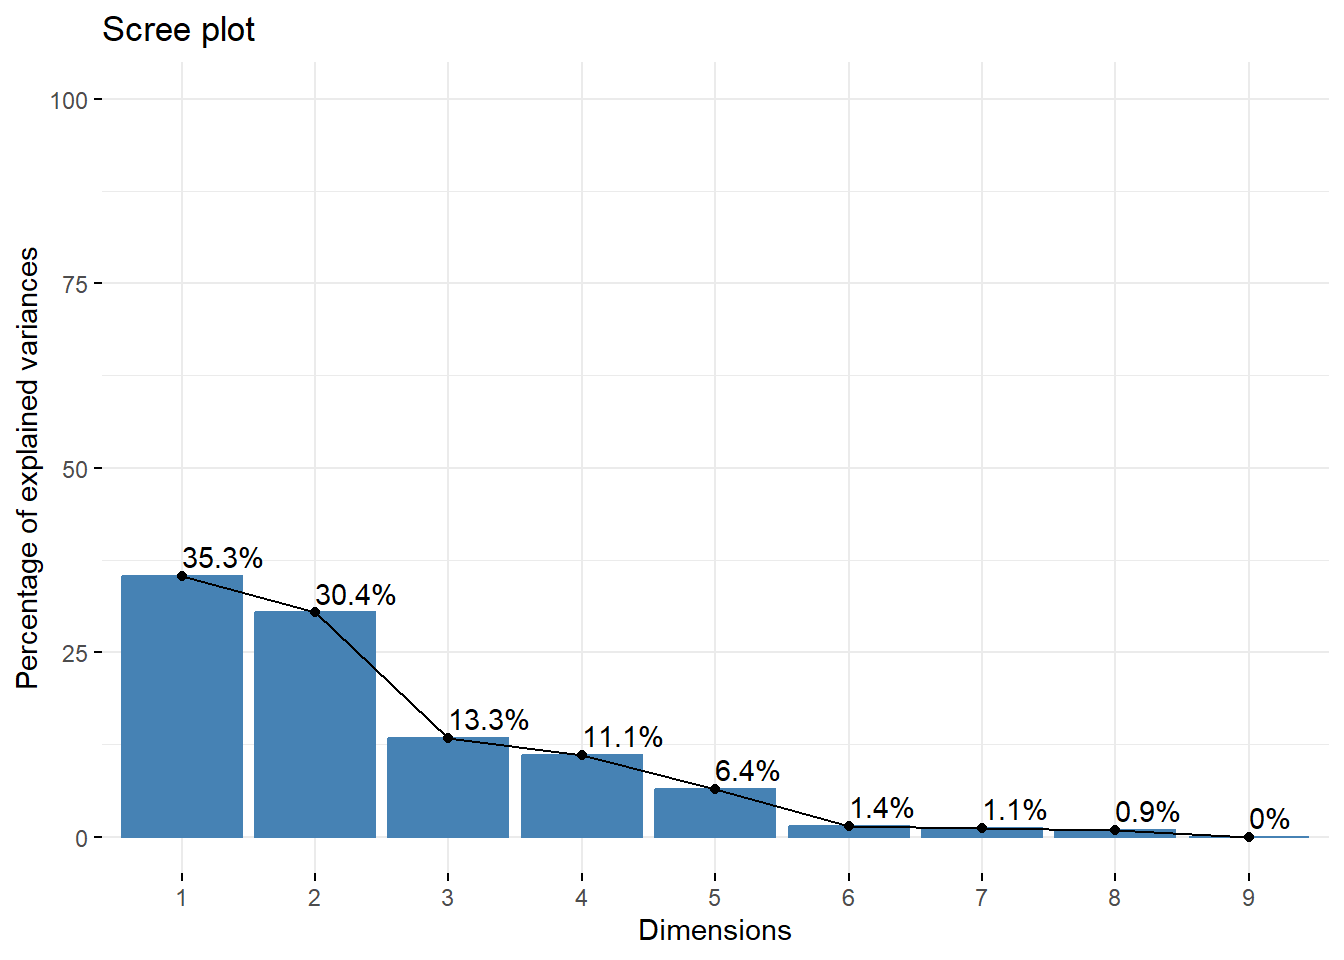
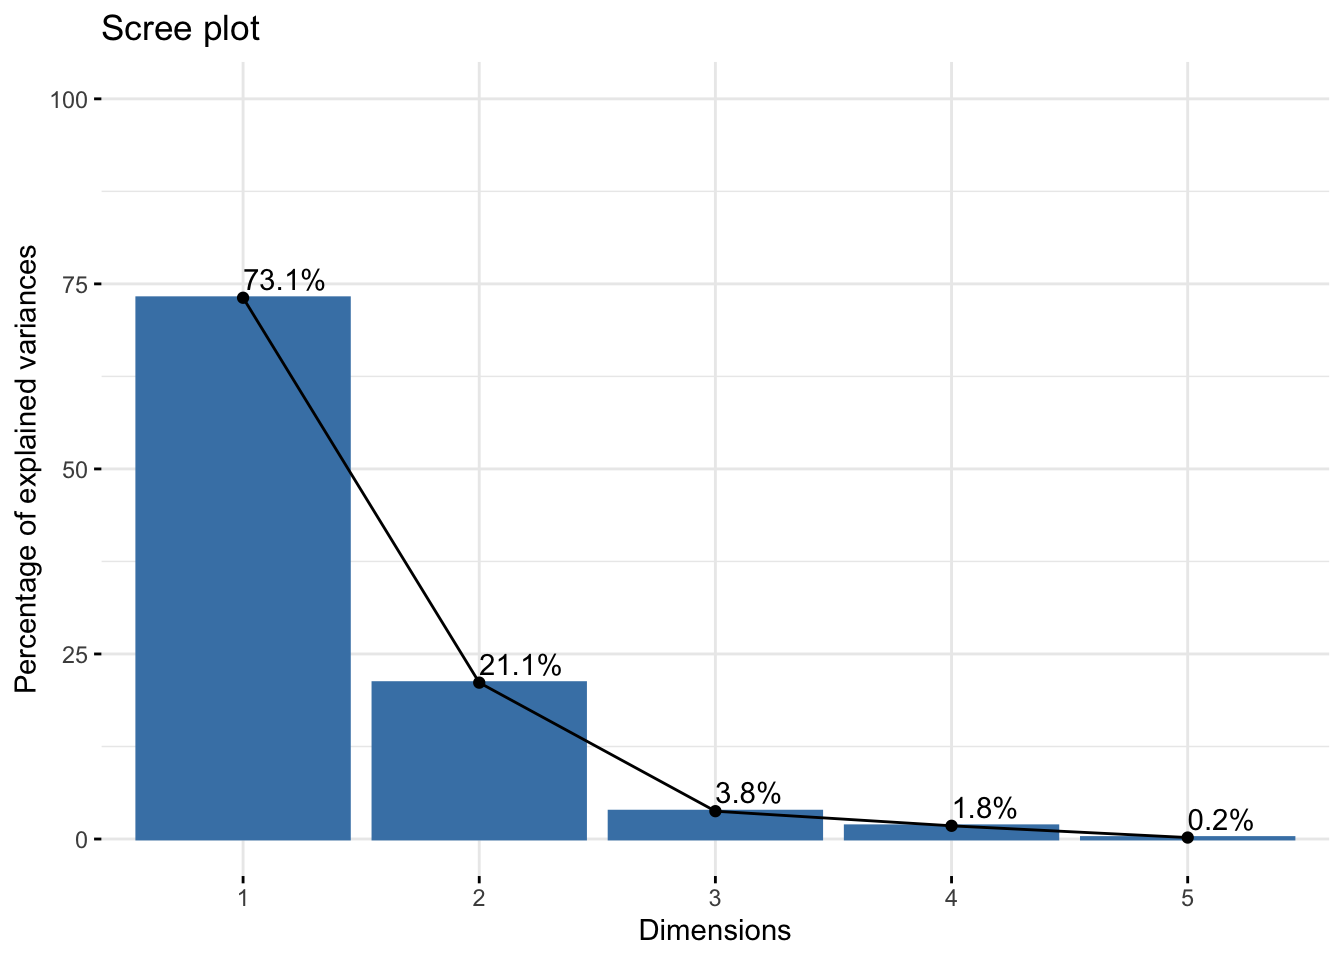
Memoria lista

diff --git a/Practica clustering.html b/Practica clustering.html
@@ -2,7 +2,7 @@
 <html xmlns="http://www.w3.org/1999/xhtml" lang="en" xml:lang="en"><head>
 
 <meta charset="utf-8">
-<meta name="generator" content="quarto-1.3.433">
+<meta name="generator" content="quarto-1.3.353">
 
 <meta name="viewport" content="width=device-width, initial-scale=1.0, user-scalable=yes">
 
@@ -101,12 +101,10 @@ pre > code.sourceCode > span > a:first-child::before { text-decoration: underlin
 
 </header>
 
-<p><strong>Cosas que hay que hacer:</strong></p>
-<ul>
-<li>Resumen de los datos para contextualizar</li>
-<li>ACP</li>
-<li>Clustering (entiendo yo que habrá que hacerlo de un par de formas)</li>
-</ul>
+<section id="introducción" class="level2">
+<h2 class="anchored" data-anchor-id="introducción">Introducción</h2>
+<p>El objetivo de esta práctica consiste en realizar un análisis de clustering y el análisis de componentes principales, para ello, recuperamos nuestros datos demogràficos de la pràctica 3. Recordemos que en el análisis exploratorio, si agrupábamos los datos por la variable <code>Año</code>, no había grandes diferencias entre los tres años resultantes, por ello, vamos a considerar solo el año <code>2019</code> para llevar a cabo nuestro estudio. Por último, las variables de las que nos ocuparemos son: <em>esperanza de vida</em>,<em>natalidad</em>,<em>mortalidad</em>,<em>mortalidad infantil</em> y <em>fertilidad</em>.</p>
+</section>
 <section id="carga-de-datos-de-la-exposición" class="level2">
 <h2 class="anchored" data-anchor-id="carga-de-datos-de-la-exposición">Carga de datos de la exposición</h2>
 <div class="cell">
@@ -129,132 +127,158 @@ $ Continent               &lt;chr&gt; "Asia", "Asia", "Asia", "Asia", "Asia", "E
 $ Area_km2                &lt;dbl&gt; 652230, 652230, 652230, 652230, 652230, 28748,…</code></pre>
 </div>
 </div>
-<div class="cell">
-<div class="cell-output cell-output-stdout">
-<pre><code># A tibble: 5 × 14
-  Año    Pais Continente Area_km2 Pob_total Pob_urbana Pob_rural Densidad
-  &lt;chr&gt; &lt;int&gt;      &lt;int&gt;    &lt;int&gt;     &lt;int&gt;      &lt;int&gt;     &lt;int&gt;    &lt;int&gt;
-1 2017      0         23       23       209        209       209       11
-2 2018      0         24       24         0          2        12       13
-3 2019      0         24       24         0          2        12       13
-4 2020      0         24       24         0          2        12       13
-5 2021      0         24       24         0          2        12      216
-# ℹ 6 more variables: Esp_vida &lt;int&gt;, Natalidad &lt;int&gt;, Mortalidad &lt;int&gt;,
-#   Mortalidad_infantil &lt;int&gt;, Fertilidad &lt;int&gt;, Crecimiento &lt;int&gt;</code></pre>
-</div>
-</div>
 </section>
 <section id="análisis-de-componentes-principales" class="level2">
 <h2 class="anchored" data-anchor-id="análisis-de-componentes-principales">Análisis de componentes principales</h2>
-<p>Realicemos un análisis de componentes principales; empezaremos seleccionando los datos numéricos de nuestra tabla de datos. Recordemos que en el análisis exploratorio, si agrupábamos los datos por la variable <code>Año</code>, no había grandes diferencias entre los tres años resultantes: por ello, vamos a considerar solo el año <code>2019</code> para llevar a cabo nuestro ACP.</p>
+<p>Realicemos un análisis de componentes principales; empezaremos seleccionando los datos numéricos de nuestra tabla de datos. Además, debemos tener en cuenta que nuestros datos no se encuentran en la mismas unidades, por lo tanto és necesario reescalarlos.</p>
 <div class="cell">
 <div class="cell-output cell-output-stdout">
-<pre><code>Rows: 183
-Columns: 9
-$ Area_km2            &lt;dbl&gt; 652230, 28748, 2381741, 1246700, 442, 2780400, 297…
-$ Pob_total           &lt;dbl&gt; 37769499, 2854191, 42705368, 32353588, 92117, 4493…
-$ Pob_urbana          &lt;dbl&gt; 9727157, 1747593, 31255632, 21410634, 22574, 41339…
-$ Pob_rural           &lt;dbl&gt; 28042342, 1106598, 11449736, 10942954, 69543, 3599…
-$ Densidad            &lt;int&gt; 58, 104, 18, 26, 209, 16, 99, 3, 108, 121, 40, 652…
-$ Esp_vida            &lt;int&gt; 64, 79, 76, 62, 79, 77, 75, 83, 82, 73, 71, 77, 74…
+<pre><code>Rows: 191
+Columns: 5
+$ Esp_vida            &lt;int&gt; 64, 79, 76, 62, 79, 77, 75, 83, 82, 73, 71, 80, 73…
 $ Natalidad           &lt;dbl&gt; 36.466, 10.343, 23.298, 39.725, 11.485, 14.783, 12…
 $ Mortalidad          &lt;dbl&gt; 6.791, 8.480, 4.392, 7.811, 5.865, 7.600, 9.662, 6…
-$ Mortalidad_infantil &lt;dbl&gt; 46.3, 8.4, 20.1, 50.4, 5.5, 7.6, 10.5, 3.2, 2.9, 1…</code></pre>
+$ Mortalidad_infantil &lt;dbl&gt; 46.3, 8.4, 20.1, 50.4, 5.5, 7.6, 10.5, 3.2, 2.9, 1…
+$ Fertilidad          &lt;dbl&gt; 4.870, 1.414, 2.988, 5.442, 1.468, 1.994, 1.575, 1…</code></pre>
 </div>
 </div>
-<p><strong>Comentario Marga: tenemos que determinar si hacemos princomp o prcomp, si escalamos los datos o no y si utilizamos la matriz de covarianzas o correlaciones</strong></p>
-<p>Empezamos ahora con el ACP. Vamos a utilizar la matriz de <strong>correlaciones o covarianzas</strong> y vamos a escalar los datos, debido a que no están tomados con las mismas magnitudes. El resultado que obtenemos es el siguiente:</p>
+<div class="cell">
+<div class="sourceCode cell-code" id="cb3"><pre class="sourceCode r code-with-copy"><code class="sourceCode r"><span id="cb3-1"><a href="#cb3-1" aria-hidden="true" tabindex="-1"></a>datos_escalados <span class="ot">&lt;-</span> <span class="fu">scale</span>(datos_numericos)</span>
+<span id="cb3-2"><a href="#cb3-2" aria-hidden="true" tabindex="-1"></a></span>
+<span id="cb3-3"><a href="#cb3-3" aria-hidden="true" tabindex="-1"></a>continentes <span class="ot">&lt;-</span> <span class="fu">data.frame</span>(datos_numericos_continente<span class="sc">$</span>Continente)</span>
+<span id="cb3-4"><a href="#cb3-4" aria-hidden="true" tabindex="-1"></a>datos_escalados_continente <span class="ot">&lt;-</span> <span class="fu">cbind</span>(datos_escalados, continentes)  <span class="do">## data frame con la variable de perfil Continente</span></span></code><button title="Copy to Clipboard" class="code-copy-button"><i class="bi"></i></button></pre></div>
+</div>
+<p>Empezamos ahora con el PCA, utilizamos la matriz de <strong>correlaciones</strong> y la función <code>prcomp()</code> con el parámetro <code>cor</code> igualado a TRUE. Obtenemos lo siguiente:</p>
 <div class="cell">
 <div class="cell-output cell-output-stdout">
-<pre><code>Standard deviations (1, .., p=9):
-[1] 1.783025e+00 1.653352e+00 1.094628e+00 1.000106e+00 7.604840e-01
-[6] 3.543283e-01 3.195577e-01 2.877906e-01 1.722135e-16
+<pre><code>Standard deviations (1, .., p=5):
+[1] 1.91213663 1.02778341 0.43372916 0.29885291 0.09980344
 
-Rotation (n x k) = (9 x 9):
-                             PC1         PC2         PC3          PC4
-Area_km2             0.315980258  0.10054411  0.45732949  0.288851968
-Pob_total            0.510789699  0.22951803 -0.06587213 -0.054033871
-Pob_urbana           0.512936389  0.18687958  0.03058829  0.003517938
-Pob_rural            0.464297817  0.25080483 -0.15345090 -0.105005537
-Densidad             0.101158531 -0.08497832 -0.71439957 -0.387336247
-Esp_vida             0.224285644 -0.52933201 -0.02807966  0.129226322
-Natalidad           -0.234115749  0.51426487 -0.10406968  0.147723450
-Mortalidad          -0.008439318 -0.02553716  0.48973321 -0.839231305
-Mortalidad_infantil -0.212498598  0.53558484 -0.01426328 -0.098722492
-                            PC5           PC6         PC7          PC8
-Area_km2            -0.73696438  0.2302031380 -0.02999805 -0.021254818
-Pob_total            0.17763982 -0.0309778913  0.02004954  0.004526544
-Pob_urbana           0.03685671 -0.7235006922  0.02369123  0.068106922
-Pob_rural            0.29837346  0.6415964570  0.01478352 -0.057368669
-Densidad            -0.56726327 -0.0098893839  0.01317439  0.009515436
-Esp_vida             0.05855556 -0.0424408923  0.19343865 -0.780619733
-Natalidad           -0.07332561 -0.0339105442  0.77579755 -0.199199238
-Mortalidad          -0.03800599  0.0004319783  0.21273130 -0.091812739
-Mortalidad_infantil -0.05389792 -0.0888733901 -0.55965148 -0.577953631
-                              PC9
-Area_km2            -6.266808e-17
-Pob_total           -8.038772e-01
-Pob_urbana           4.135369e-01
-Pob_rural            4.275145e-01
-Densidad             8.326673e-17
-Esp_vida            -1.318390e-16
-Natalidad            0.000000e+00
-Mortalidad           1.387779e-17
-Mortalidad_infantil -1.040834e-16</code></pre>
+Rotation (n x k) = (5 x 5):
+                             PC1         PC2        PC3         PC4         PC5
+Esp_vida             0.493177101 -0.15570963 -0.4766372  0.68584968  0.18697065
+Natalidad           -0.508315731 -0.15307739 -0.3529211 -0.12189679  0.76076952
+Mortalidad           0.006949629  0.96796931 -0.2294373  0.02871237  0.09757683
+Mortalidad_infantil -0.496222609  0.09550935  0.4888622  0.71053104  0.02829219
+Fertilidad          -0.502101871 -0.07896336 -0.5971900  0.09525037 -0.61314763</code></pre>
 </div>
 </div>
 <p>Para entenderlo mejor, obtenemos los valores propios de cada componente:</p>
 <div class="cell">
 <div class="cell-output cell-output-stdout">
-<pre><code>        eigenvalue variance.percent cumulative.variance.percent
-Dim.1 3.179177e+00     3.532419e+01                    35.32419
-Dim.2 2.733574e+00     3.037305e+01                    65.69724
-Dim.3 1.198211e+00     1.331346e+01                    79.01070
-Dim.4 1.000212e+00     1.111347e+01                    90.12417
-Dim.5 5.783359e-01     6.425955e+00                    96.55012
-Dim.6 1.255485e-01     1.394984e+00                    97.94511
-Dim.7 1.021171e-01     1.134634e+00                    99.07974
-Dim.8 8.282343e-02     9.202604e-01                   100.00000
-Dim.9 2.965750e-32     3.295278e-31                   100.00000</code></pre>
+<pre><code>       eigenvalue variance.percent cumulative.variance.percent
+Dim.1 3.656266497       73.1253299                    73.12533
+Dim.2 1.056338735       21.1267747                    94.25210
+Dim.3 0.188120982        3.7624196                    98.01452
+Dim.4 0.089313060        1.7862612                    99.80079
+Dim.5 0.009960726        0.1992145                   100.00000</code></pre>
 </div>
 </div>
-<p>Observemos que para explicar el 80% de los datos tendríamos que escoger tres componentes principales. Con el siguiente gráfico vamos a determinar si es necesario escoger una más.</p>
+<p>Observamos que para explicar el 94% de los datos tendríamos que escoger dos componentes principales. Cabe mencionar que añadir una componente más no nos proporciona información relevante en cuanto a la representación de las variables.</p>
+<p>Esto lo visualizamos mejor en el siguiente gráfico:</p>
 <div class="cell">
 <div class="cell-output-display">
 <p><img src="Practica-clustering_files/figure-html/unnamed-chunk-10-1.png" class="img-fluid" width="672"></p>
 </div>
 </div>
-<p>Como la pendiente entre la tercera y la cuarta componente no es pronunciada, nos quedaremos con las tres primeras componentes principales.</p>
-<p><strong>No se si el grafico siguiente nos va a dar alguna info, porque tenemos 3 componenentes y solo nos representa 2</strong></p>
+<p>Vemos que la pendiente entre la primer y la segunda componentes principales és mucho más pronunciada que el resto. Así, reafirmamos nuestra decisión de considerar dos componentes principales. En el siguiente gráfico vemos como quedarían representadas cada una de las variables en el círculo de correlación variable.</p>
 <p>En el siguiente gráfico vemos como quedarían representadas cada una de las variables en el círculo de correlación variable.</p>
 <div class="cell">
 <div class="cell-output-display">
 <p><img src="Practica-clustering_files/figure-html/unnamed-chunk-11-1.png" class="img-fluid" width="672"></p>
 </div>
 </div>
-<p>Vamos a explicarlo detalladamente:</p>
-<ul>
-<li><p>El color de cada variable indica cuan bien representadas están;</p></li>
-<li><p>La longitud de las flechas nos indica que no todas las varibales tienen influencia en las componentes princpales.</p></li>
-</ul>
-<p><strong>¿Quitariais los outliers y comprovariais si hay cambios? Todo lo quye hay escrito abajo esta copiado de la práctica de pca, hay que cambiarlo todo</strong></p>
-<p>Vamos a realizar el mismo estudio, pero sin considerar los países que son outliers. Para ello, primero vamos a visualizar quiénes son estos países. Utilizamos la función <code>boxplot()</code>:</p>
-<p>Estos son:</p>
-<p>Una vez hemos eliminado los outliers, repetimos el proceso anterior de realizar el ACP:</p>
-<p>Veamos los valores propios de cada una de las componentes:</p>
+<p>Vamos a explicarlo detalladamente: sabemos que las variables que muestran correlación positiva se agrupan, mientras que las que se muestran opuestas la una a la otra son las que presentan correlación negativa; así pues, tal y como vimos en la primera parte de este estudio, <strong>Mortalidad infantil</strong>, <strong>Fertilidad</strong> y <strong>Natalidad</strong> están correlacionadas positivamente, mientras que <strong>Mortalidad infantilidad</strong> y <strong>Esperanza de vida</strong> presentan correlación negativa. Además, el color de las variables nos indica cuan bien representadas están, por lo tanto, <strong>Natalidad</strong> y <strong>Mortalidad</strong> son las que mejor representadas quedan mientras que <strong>Mortalidad infantil</strong> és la que peor. Por último, la longitud de las flechas indica la influencia de las variables en las componentes principales, por lo tanto, vemos que todas tienen una influencia relevante en nuestro ACP.</p>
+<p>Ahora, veamos si podemos obtener una clasificación de los países por grupos a través de las dos componentes principales. (No añadiremos las estiquetas para observar mejor el gráfico)</p>
 <div class="cell">
-<div class="sourceCode cell-code" id="cb6"><pre class="sourceCode r code-with-copy"><code class="sourceCode r"><span id="cb6-1"><a href="#cb6-1" aria-hidden="true" tabindex="-1"></a><span class="co">#get_eigenvalue(data.acp.outliers)</span></span></code><button title="Copy to Clipboard" class="code-copy-button"><i class="bi"></i></button></pre></div>
+<div class="cell-output-display">
+<p><img src="Practica-clustering_files/figure-html/unnamed-chunk-12-1.png" class="img-fluid" width="672"></p>
 </div>
-<p>Observando la última columna, vemos que con la primera componente explicamos el 72.43% de la información, y al considerar las dos primeras componentes, llegamos a un 91.32% de explicación de los datos. De nuevo, veámoslo en el siguiente gráfico de codo:</p>
-<p>De nuevo, las pendientes de las rectas indican que con dos componentes principales és suficiente para dar una buena representación de los datos. Veámos con el siguiente gráfico cómo quedan representadas las variables en el círculo de correlación variable:</p>
-<p>Lo primero que nos llama la atención és que la variable agricultura queda aislada del resto, esto nos indica que no presenta correlación con el resto de variables; además, los colores de las flechas nos indican cuán bien quedan representadas las variables, observamos que, de nuevo, la variable Agricultura és la que mejor queda representada, seguida de ‘Fábrica’ y ‘SSP’. Por último, la longitud de las flechas nos indica que no todas las varibales tienen la misma influencia en las componentes princpales. Así pues, “Min”, “Con”, “TC”, “Ene”, “IS” y “Fin” son variables con poca influencia Por el contrario, “Agricultura”, “Fábrica” y “SSP” tienen un mayor peso en este aspecto.</p>
-<p>Ahora, veamos si podemos obtener una clasificación de los países por grupos a través de las dos componentes principales.</p>
+</div>
 <p>Como vemos, no hay una separación clara de los países en función de las componentes principales. Para poder analizar más en concreto este punto, consideraremos el siguiente gráfico:</p>
-<p>En él, podemos ver los países coloreados en relación a la calidad de representación en el ACP. Los países representados por azul claro tienen una alta representación, como Polonia o Inlaterra, mientras que los países con un azul más oscuro no, como es el caso de Italia o Áustria. Observamos que, en este caso, la Unión Soviética queda mucho mejor representada por este ACP que por el que hemos hecho anteriormente.</p>
-<p>Finalmente, veamos numéricamente como és la calidad de representación de las dos CP es la siguiente:</p>
+<div class="cell">
+<div class="cell-output-display">
+<p><img src="Practica-clustering_files/figure-html/unnamed-chunk-13-1.png" class="img-fluid" width="672"></p>
+</div>
+</div>
+<p>En él, podemos ver los países coloreados en relación a la calidad de representación en el ACP. Los países representados por azul claro tienen una alta representación, mientras que los países con un azul más oscuro no. Vemos que prácticamente todos las observaciones quedan bien representadas. Los países correspondientes a las observaciones más oscuras y por ende peor representadas són: India, Republica Dominicana, Kazakhistan, Nepal, Indonesia, Bután y Tonga.</p>
+<p>Una vez realizado el ACP, vamos a visulizar como quedan agrupados los países según su continente:</p>
+<div class="cell">
+<div class="cell-output-display">
+<p><img src="Practica-clustering_files/figure-html/unnamed-chunk-14-1.png" class="img-fluid" width="672"></p>
+</div>
+</div>
+<p>Lo primero que observamos es que los países de Europa queda agrupados a la derecha del gráfico, es decir, que la variable con más influencia sobre ellos es <strong>Esperanza de vida</strong>; por el contrario los países africanos se situan a la izquierda del gráfico siendo más representados por las variables <strong>Natalidad</strong>, <strong>Mortalidad</strong> y <strong>Mortalidad infantil</strong>. En cuanto al resto de continentes, no vemos un patrón claro.</p>
 </section>
 <section id="clustering" class="level2">
 <h2 class="anchored" data-anchor-id="clustering">Clustering</h2>
+<p>Recordamos que en nuestros datos teniamos múltiples valores outliers, cosa que nos impide utilizar la distancia euclídea y aplicar el algoritmo k-means. Por ello, utilizaremos la distancia manhattan entre las observaciones y aplicaremos el algoritmo k-medoids.</p>
+<p>Primero debemos determinar el número óptimo de clusters que utilizaremos. Veámoslo con el método del codo:</p>
+<div class="cell">
+<div class="cell-output-display">
+<p><img src="Practica-clustering_files/figure-html/unnamed-chunk-15-1.png" class="img-fluid" width="672"></p>
+</div>
+</div>
+<p>Viendo el gráfico, decidimos utilizar tres clusters.</p>
+<section id="k-medoids" class="level3">
+<h3 class="anchored" data-anchor-id="k-medoids">K-medoids:</h3>
+<div class="cell">
+<div class="cell-output-display">
+<p><img src="Practica-clustering_files/figure-html/unnamed-chunk-17-1.png" class="img-fluid" width="672"></p>
+</div>
+</div>
+<p>Observamos que se repite el patrón que hemos visto en el gráfico autoplot, en este caso, vemos que el cluster verde se adapta bien a los países de Europa, mientras que el cluster rojo engloba los países de África y algunos de Oceanía; por último, el cluster azul toma los países de Ásia, Sudamérica y Norteamérica.</p>
+</section>
+<section id="clustering-aglomerativo" class="level3">
+<h3 class="anchored" data-anchor-id="clustering-aglomerativo">Clustering aglomerativo:</h3>
+<p>Vamos a ver ahora tres clusters jerárquicos utilizando distintas distancias para determinar cuál de ellas se adapta mejor a nuestros datos. Empezamos utilizando el <em>linkage complete</em>:</p>
+<div class="cell">
+<div class="cell-output-display">
+<p><img src="Practica-clustering_files/figure-html/unnamed-chunk-18-1.png" class="img-fluid" width="672"></p>
+</div>
+</div>
+<p>Veamos ahora que países encontramos en cada cluster:</p>
+<p>Veamos que países encontramos en cada cluster: en el primer cluster (lila) nos encontramos con países de África, Ásia y Oceanía mayoritariamente; el cluster 2 (azul) contiene todos los países de Europa, algunos de Ásia, y gran parte de los países de Norteamérica y Sudamérica; el tercer cluster (verde) contiene mayoritariamente países de Ásia, Sudamérica y Oceanía; finalmente, en el cluster 4 (rojo) encontramos únicamente países de África.</p>
+<p>Veamos que ocurre al utilizar el <em>linkage average</em>:</p>
+<div class="cell">
+<div class="cell-output-display">
+<p><img src="Practica-clustering_files/figure-html/unnamed-chunk-20-1.png" class="img-fluid" width="672"></p>
+</div>
+</div>
+<p>En este caso, se han agrupado en tres clústers; el primero, que es el que tiene menos observaciones corresponde única y exclusivamente a algunos paises de África. Los países de Europa, Asia, Norteamérica y Sudamérica se han agrupado en un clúster y, finalmente, Oceanía y África en otro clúster por separado.</p>
+<div class="cell">
+<div class="sourceCode cell-code" id="cb6"><pre class="sourceCode r code-with-copy"><code class="sourceCode r"><span id="cb6-1"><a href="#cb6-1" aria-hidden="true" tabindex="-1"></a>ga <span class="ot">&lt;-</span> <span class="fu">cutree</span>(hc_average, <span class="at">k=</span><span class="dv">3</span>) </span>
+<span id="cb6-2"><a href="#cb6-2" aria-hidden="true" tabindex="-1"></a>datos_average <span class="ot">=</span> <span class="fu">data.frame</span>(<span class="st">"Pais"</span> <span class="ot">=</span>datos_numericos_continente<span class="sc">$</span>Pais, <span class="st">"Continente"</span> <span class="ot">=</span> datos_numericos_continente<span class="sc">$</span>Continente, <span class="st">"Cluster"</span> <span class="ot">=</span>ga)</span>
+<span id="cb6-3"><a href="#cb6-3" aria-hidden="true" tabindex="-1"></a></span>
+<span id="cb6-4"><a href="#cb6-4" aria-hidden="true" tabindex="-1"></a><span class="co">#datos_average %&gt;% </span></span>
+<span id="cb6-5"><a href="#cb6-5" aria-hidden="true" tabindex="-1"></a><span class="co">#  arrange(Continente)</span></span></code><button title="Copy to Clipboard" class="code-copy-button"><i class="bi"></i></button></pre></div>
+</div>
+<p>Por último, estudiaremos el <em>linkage ward</em>:</p>
+<div class="cell">
+<div class="cell-output-display">
+<p><img src="Practica-clustering_files/figure-html/unnamed-chunk-22-1.png" class="img-fluid" width="672"></p>
+</div>
+</div>
+<p>En este caso, hemos decidido considerar 5 clusters, veamos que países cncontramos en cada uno de ellos:</p>
+<p>En el primer cluster (verde) encontramos mayoritariamente países de África, y el resto son de Oceanía y Ásia; en el segundo (lila) encontramos mayoritariamente países de África, Norteamérica y Sudamérica y alguno de Europa; en el cluster 3 (rojo) vemos que la mayoría son países de Ásia y Norteamérica; en el cluster 4 (azul) tan solo encontramos países de África; por último, en el quinto cluster (amarillo) vemos que se encuentran prácticamente todos los países de Europa.</p>
+</section>
+<section id="conclusión" class="level3">
+<h3 class="anchored" data-anchor-id="conclusión">Conclusión:</h3>
+<p>Gracias al ACP realizado hemos visto que los continentes que mejor representados estaban eran Eruopa y África, ambos en lados extremos del gráfico debido a que las variables que actúan con mayor peso sobre los países de estos són justo las que están correlacionadas negativamente, como vimos en la práctica anterior.</p>
+<p>A continuación hemos llevado a cabo el clustering para ver si había una agrupación por continentes respecto a las variables dadas. La conclusión no está del todo clara. Por un lado, con el método particional k-medoids hemos visto que los datos se podían agrupar en 3 clústers, correspondientes a los realizados por el ACP. Por otro lado, hemos realizado un clustering jerárquico, utilizando tres linkage diferentes para comprobar cual era el mejor. Hemos obtenido diferentes resultados. Para determinar con cuál nos quedamos, utilizaremos la función cophenetics(). Así, obtenemos los siguientes resultados:</p>
+<div class="cell">
+<div class="cell-output cell-output-stdout">
+<pre><code>[1] 0.7678405</code></pre>
+</div>
+<div class="cell-output cell-output-stdout">
+<pre><code>[1] 0.7483935</code></pre>
+</div>
+<div class="cell-output cell-output-stdout">
+<pre><code>[1] 0.5994604</code></pre>
+</div>
+</div>
+<p>El primer valor corresponde al método complete y vemos que es el que ha obtenido una mayor correlación; por lo tanto, nos quedaremos con los resultados de este. Es decir, los países se agrupan en cuatro clústers.</p>
+</section>
 </section>
 
 </main>
